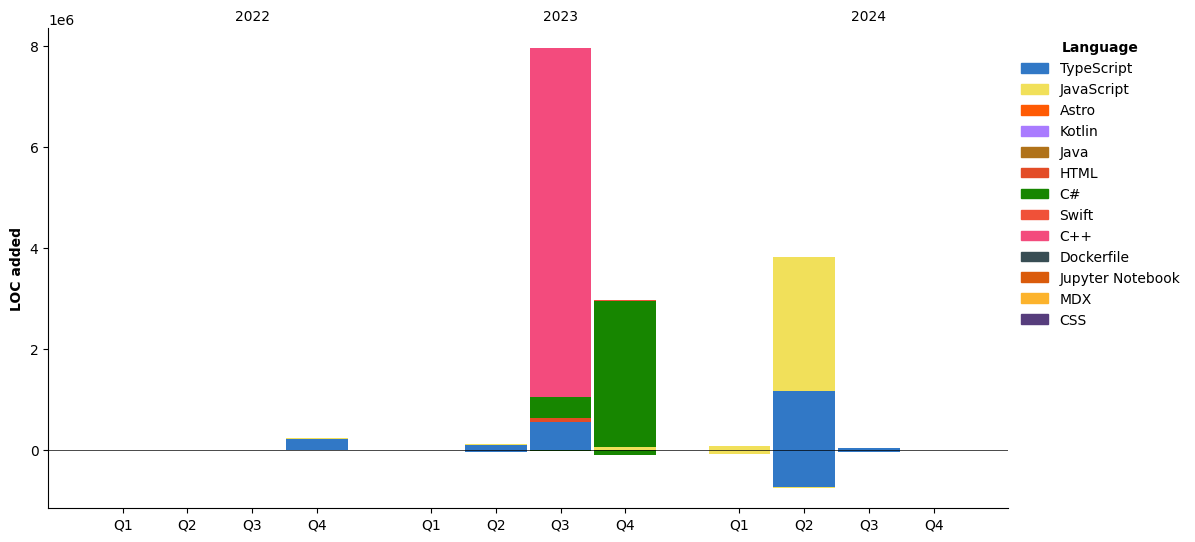
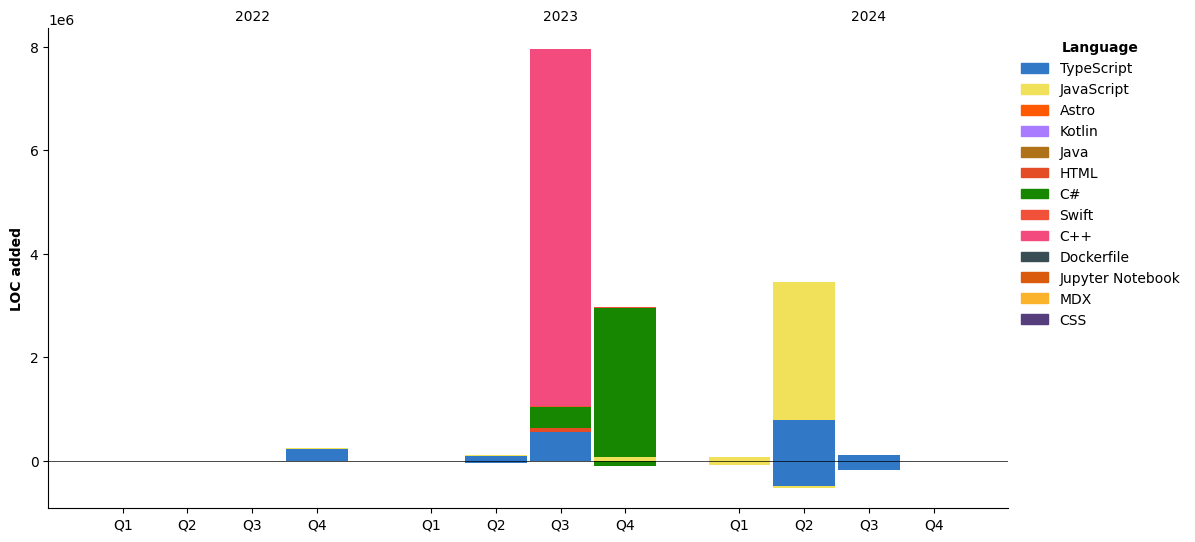
Updated with Dev Metrics

diff --git a/README.md b/README.md
@@ -20,17 +20,92 @@ https://linktr.ee/themehrankhan
 # How much i coded this month?
 **This is what I've coded in from 2022 to now, I don't got data older than this.**
 <!--START_SECTION:waka-->
+![Code Time](http://img.shields.io/badge/Code%20Time-494%20hrs%2031%20mins-blue)
 
-```typescript
-From: 17 July 2022 - To: 08 July 2024
+![Profile Views](http://img.shields.io/badge/Profile%20Views-309-blue)
 
-Total Time: 432 hrs 58 mins
+**🐱 My GitHub Data** 
 
-Unity                      115 hrs 1 min   >>>>>>-------------------   23.27 %
-C#                         76 hrs 23 mins  >>>>---------------------   15.46 %
-Other                      61 hrs 13 mins  >>>----------------------   12.39 %
+> 📦 845.1 kB Used in GitHub's Storage 
+ > 
+> 🏆 608 Contributions in the Year 2024
+ > 
+> 💼 Opted to Hire
+ > 
+> 📜 26 Public Repositories 
+ > 
+> 🔑 62 Private Repositories 
+ > 
+**I'm an Early 🐤** 
+
+```text
+🌞 Morning                302 commits         █░░░░░░░░░░░░░░░░░░░░░░░░   03.21 % 
+🌆 Daytime                8519 commits        ███████████████████████░░   90.50 % 
+🌃 Evening                342 commits         █░░░░░░░░░░░░░░░░░░░░░░░░   03.63 % 
+🌙 Night                  250 commits         █░░░░░░░░░░░░░░░░░░░░░░░░   02.66 % 
+```
+📅 **I'm Most Productive on Tuesday** 
+
+```text
+Monday                   1264 commits        ███░░░░░░░░░░░░░░░░░░░░░░   13.43 % 
+Tuesday                  1494 commits        ████░░░░░░░░░░░░░░░░░░░░░   15.87 % 
+Wednesday                1229 commits        ███░░░░░░░░░░░░░░░░░░░░░░   13.06 % 
+Thursday                 1209 commits        ███░░░░░░░░░░░░░░░░░░░░░░   12.84 % 
+Friday                   1357 commits        ████░░░░░░░░░░░░░░░░░░░░░   14.42 % 
+Saturday                 1427 commits        ████░░░░░░░░░░░░░░░░░░░░░   15.16 % 
+Sunday                   1433 commits        ████░░░░░░░░░░░░░░░░░░░░░   15.22 % 
 ```
 
+
+📊 **This Week I Spent My Time On** 
+
+```text
+🕑 Time Zone: Asia/Tehran
+
+💬 Programming Languages: 
+TypeScript               7 hrs 39 mins       ██████████░░░░░░░░░░░░░░░   39.79 % 
+JavaScript               2 hrs 31 mins       ███░░░░░░░░░░░░░░░░░░░░░░   13.10 % 
+YAML                     2 hrs 5 mins        ███░░░░░░░░░░░░░░░░░░░░░░   10.84 % 
+JSON                     1 hr 24 mins        ██░░░░░░░░░░░░░░░░░░░░░░░   07.31 % 
+Bash                     1 hr 17 mins        ██░░░░░░░░░░░░░░░░░░░░░░░   06.73 % 
+
+🔥 Editors: 
+VS Code                  18 hrs              ███████████████████████░░   93.70 % 
+Xcode                    44 mins             █░░░░░░░░░░░░░░░░░░░░░░░░   03.82 % 
+Unity                    14 mins             ░░░░░░░░░░░░░░░░░░░░░░░░░   01.28 % 
+Visual Studio            13 mins             ░░░░░░░░░░░░░░░░░░░░░░░░░   01.20 % 
+
+🐱💻 Projects: 
+RCOINX                   13 hrs 27 mins      ██████████████████░░░░░░░   70.04 % 
+next-exchange            2 hrs 18 mins       ███░░░░░░░░░░░░░░░░░░░░░░   11.98 % 
+backend                  45 mins             █░░░░░░░░░░░░░░░░░░░░░░░░   03.91 % 
+nextjs-tailwind-ionic-cap29 mins             █░░░░░░░░░░░░░░░░░░░░░░░░   02.59 % 
+IranBypass               23 mins             █░░░░░░░░░░░░░░░░░░░░░░░░   02.05 % 
+
+💻 Operating System: 
+Linux                    15 hrs 33 mins      ████████████████████░░░░░   80.89 % 
+Mac                      2 hrs 2 mins        ███░░░░░░░░░░░░░░░░░░░░░░   10.60 % 
+Windows                  1 hr 38 mins        ██░░░░░░░░░░░░░░░░░░░░░░░   08.50 % 
+```
+
+**I Mostly Code in TypeScript** 
+
+```text
+TypeScript               30 repos            ███████████░░░░░░░░░░░░░░   44.78 % 
+JavaScript               14 repos            █████░░░░░░░░░░░░░░░░░░░░   20.90 % 
+MDX                      3 repos             █░░░░░░░░░░░░░░░░░░░░░░░░   04.48 % 
+CSS                      2 repos             █░░░░░░░░░░░░░░░░░░░░░░░░   02.99 % 
+Jupyter Notebook         1 repo              ░░░░░░░░░░░░░░░░░░░░░░░░░   01.49 % 
+```
+
+
+
+**Timeline**
+
+![Lines of Code chart](https://raw.githubusercontent.com/TheMehranKhan/TheMehranKhan/main/assets/bar_graph.png)
+
+
+ Last Updated on 09/07/2024 10:38:42 UTC
 <!--END_SECTION:waka-->
 
 <!-- TODO-IST:START -->
